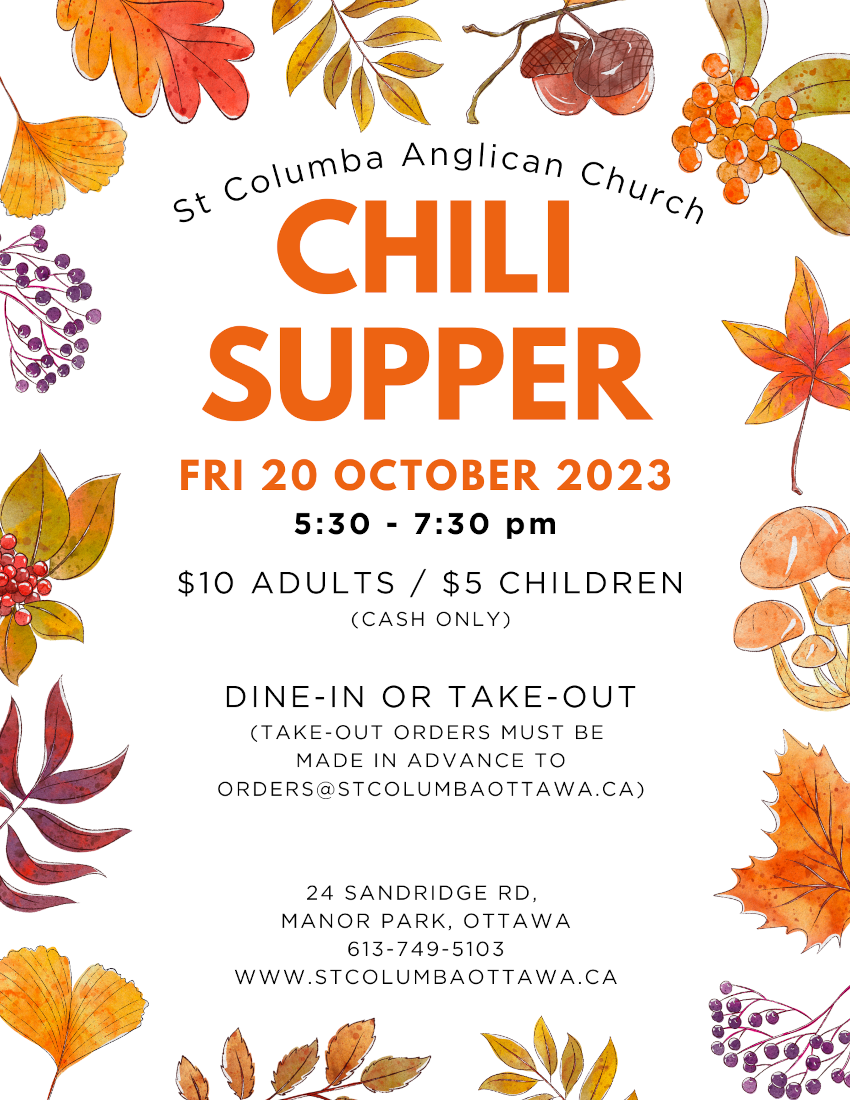
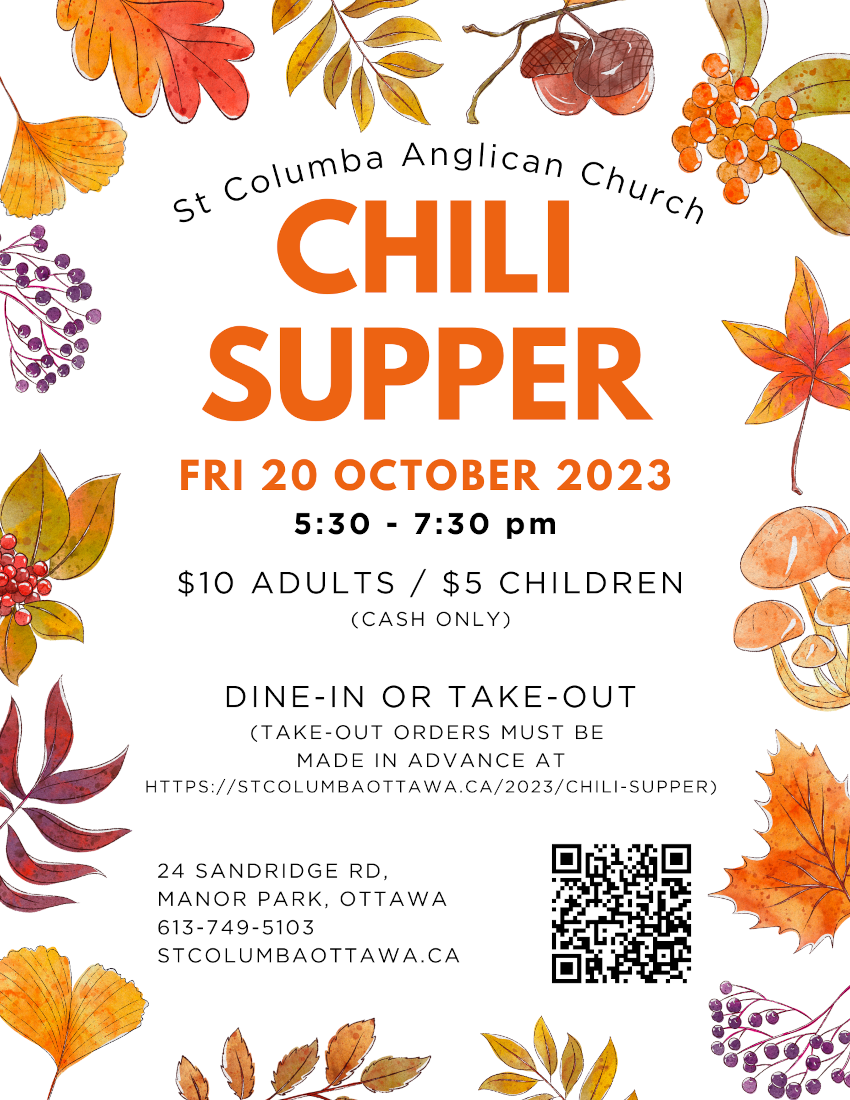
Take out order form.

Changed region(s): [[0.1835, 0.6491, 1.0, 0.8964]]

diff --git a/_posts/2023-10-02-chili-supper.md b/_posts/2023-10-02-chili-supper.md
@@ -16,5 +16,56 @@ image:
 #    caption: Open House Flyer
 #    caption_url: http://unsplash.com
 ---
-Beef or vegetarian chili, served with cornbread, beverage and dessert.  Adults $10 and children $5.  Dine-in or take-out available.  Take-out orders must be made in advance by emailing [orders@stcolumbaottawa.ca](mailto:orders@stcolumbaottawa.ca).
+Beef, turkey or vegetarian chili, served with a side, beverage and dessert.  Adults $10 and children $5.  Dine-in or take-out available.  Take-out orders must be made in advance by filling out the form below.
+
+## Take-out Order Form
+
+If ordering multiple portions, please submit each order separately. A link to make an additional order will be available after clicking submit.
+
+Chili and sides will be prepared in advance for pick-up between 5:30 and 6:30pm. Please enter at the side door, where you can pay (cash only, please) and pick-up your order.  Chili will be in a microwave-safe container for re-heating purposes.
+
+A valid email address is required to confirm your order.
+
+<script type="text/javascript">var submitted=false;</script>
+<iframe name="hidden_iframe" id="hidden_iframe" style="display:none;" 
+onload="if(submitted) {window.location='/order-submitted/';}"></iframe>
+
+<form action="https://docs.google.com/forms/u/0/d/e/1FAIpQLSew1k9-VQYz8-9DBmac4ECN9NfqCdO-993oUN5dHmljXLQpMQ/formResponse" method="post" target="hidden_iframe" onsubmit="submitted=true;">
+<label>Name for pick-up</label>
+<input type="text" placeholder="Name" name="entry.1654307600" required>
+
+<label>Email Address</label>
+<input type="email" placeholder="Email address" name="emailAddress" required>
+
+<p>Portion size</p>
+<input type="radio" id="adult" name="entry.587368323" value="Adult" required><label for="adult">Adult</label><br>
+<input type="radio" id="child" name="entry.587368323" value="Child"><label for="child">Child</label><br>
+
+<p>Type of chili</p>
+<input type="radio" id="beef" name="entry.1530659665" value="Beef" required><label for="beef">Beef</label><br>
+<input type="radio" id="turkey" name="entry.1530659665" value="Turkey"><label for="turkey">Turkey</label><br>
+<input type="radio" id="veggie" name="entry.1530659665" value="Vegetarian"><label for="veggie">Vegetarian</label><br>
+
+<p>Chili toppings</p>
+<input type="checkbox" id="sourcream" name="entry.1843475367" value="Sour cream"><label for="sourcream">Sour cream</label><br>
+<input type="checkbox" id="cilantro" name="entry.1843475367" value="Fresh cilantro"><label for="cilantro">Fresh cilantro</label><br>
+<input type="checkbox" id="cheese" name="entry.1843475367" value="Shredded Tex/Mex cheese"><label for="cheese">Shredded Tex/Mex cheese</label><br>
+<input type="checkbox" id="chips" name="entry.1843475367" value="Torilla chips"><label for="chips">Torilla chips</label><br>
+
+<p>Side</p>
+<input type="radio" id="roll" name="entry.1964498155" value="White dinner roll" required><label for="roll">White dinner roll</label><br>
+<input type="radio" id="cornbread" name="entry.1964498155" value="Homemade cornbread muffin"><label for="cornbread">Homemade cornbread muffin</label><br>
+<input type="radio" id="noside" name="entry.1964498155" value="None"><label for="noside">None</label><br>
+
+<p>Dessert preference (note that substitutions may occur)</p>
+<input type="radio" id="square" name="entry.1769978146" value="Square/bar" required><label for="square">Square/bar</label><br>
+<input type="radio" id="cookie" name="entry.1769978146" value="Cookie"><label for="cookie">Cookie</label><br>
+<input type="radio" id="nodessert" name="entry.1769978146" value="None"><label for="nodessert">None</label><br>
+
+<p>Nut allergy</p>
+<input type="radio" id="yes" name="entry.504858567" value="Yes" required><label for="yes">Yes</label><br>
+<input type="radio" id="no" name="entry.504858567" value="No"><label for="no">No</label><br>
+
+<button type="submit">Submit</button>
+</form>
 

diff --git a/pages/order-submitted.md b/pages/order-submitted.md
@@ -1,0 +1,12 @@
+---
+layout: page
+meta_title: "Order Submitted | St Columba"
+title: "Order Submitted"
+permalink: "/order-submitted/"
+---
+**Thank you for your order.**
+
+Once it has been reviewed, a confirmation of your order will be emailed to you.
+
+[Submit another order](/2023/chili-supper/)
+
